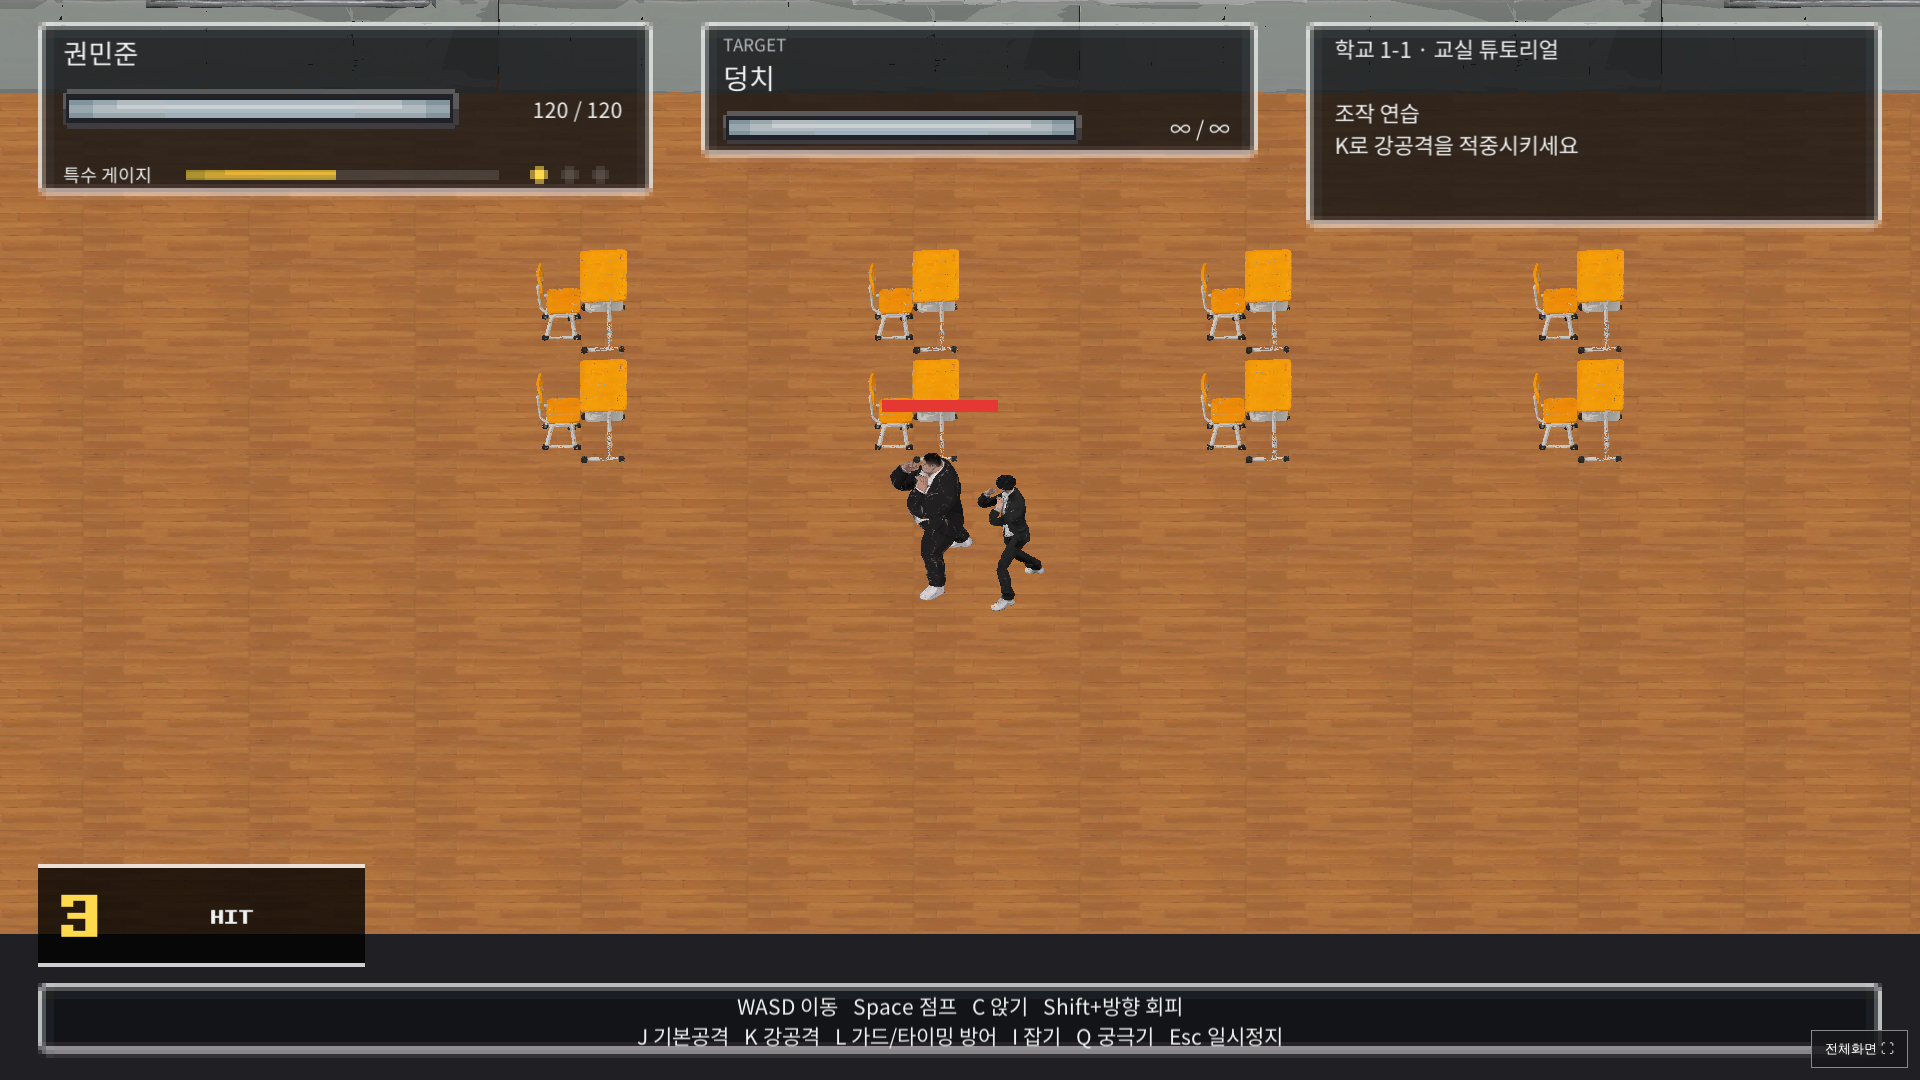
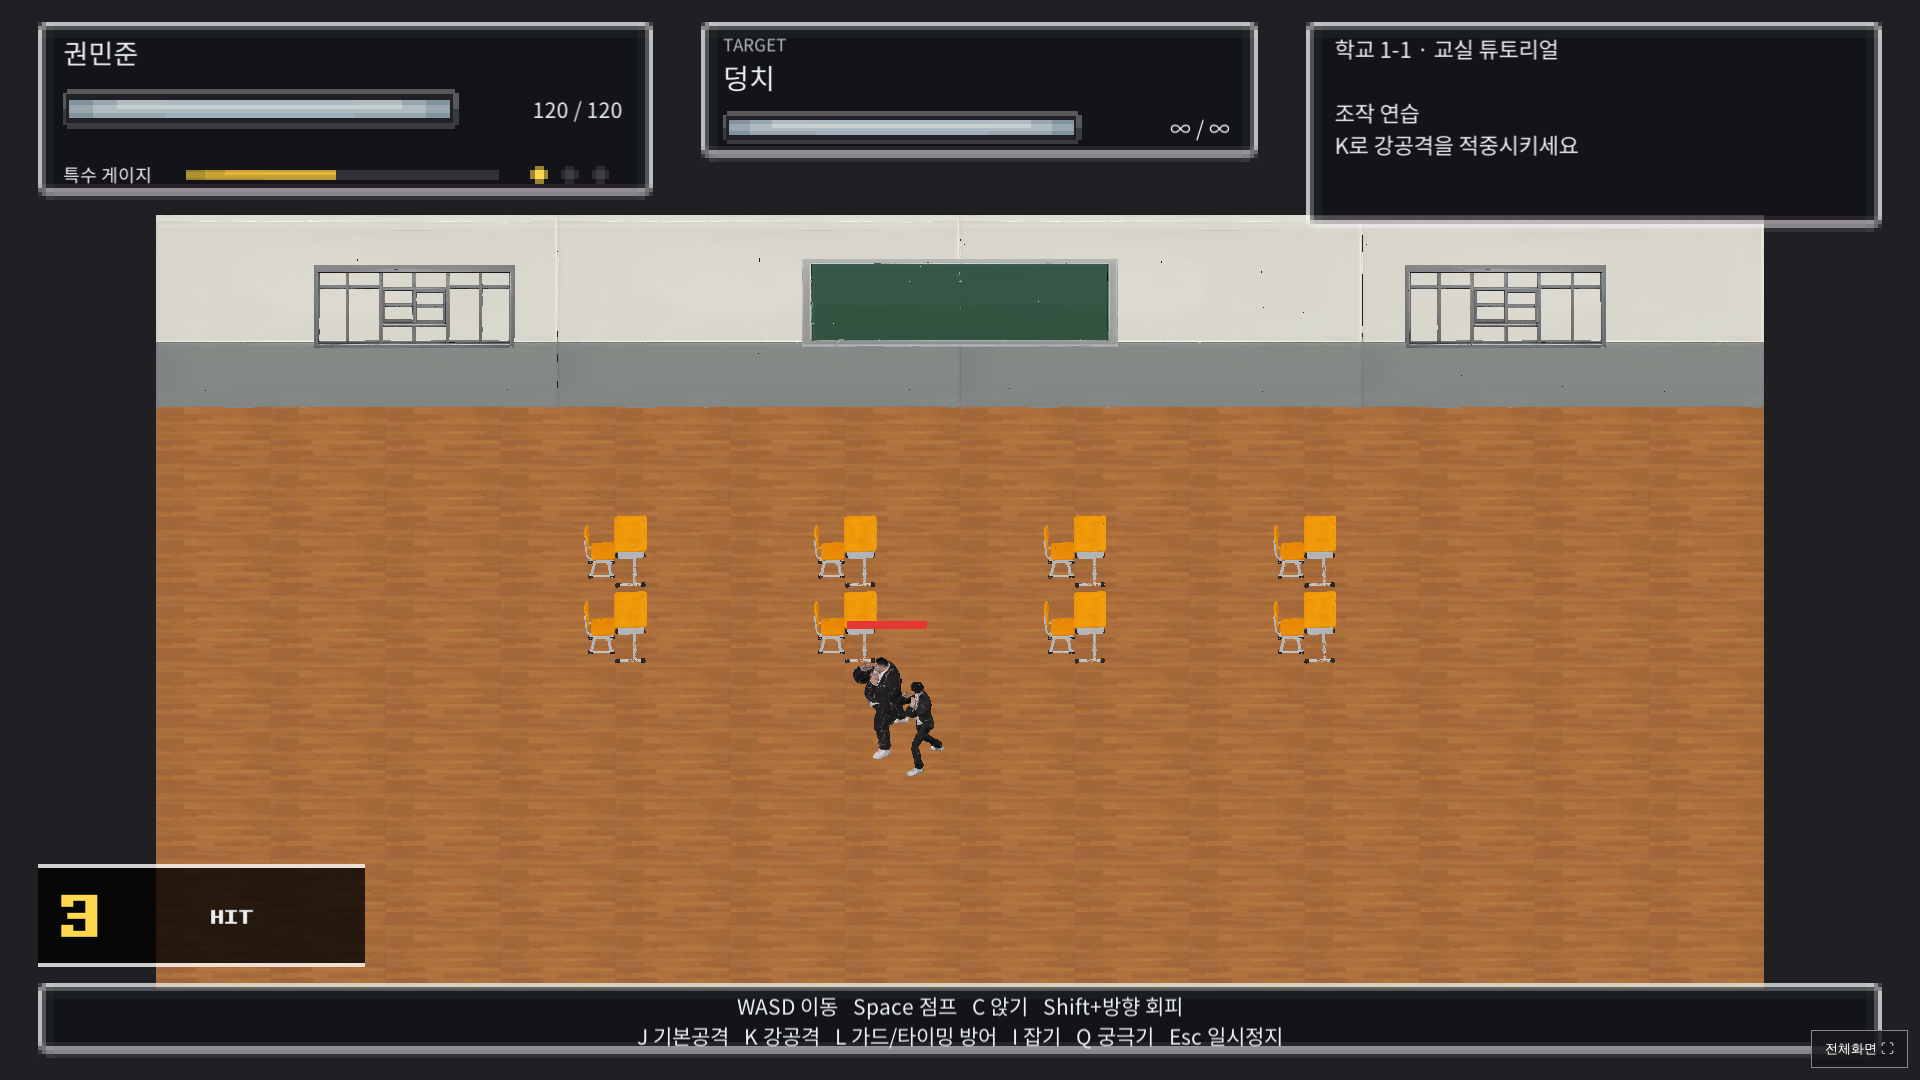
Record clean classroom and fixed-camera live verification [skip ci]

diff --git a/Docs/Assets/classroom-integration.md b/Docs/Assets/classroom-integration.md
@@ -37,3 +37,12 @@ A matching back-face-culling Blender render reproduced the remaining white crack
 The board's front writing area also restores the median original green color. This removes pale internal-backing colors sampled by projection on a few reduced facets; the provided frame and geometry are retained. The 99% board regression threshold stays unchanged.
 
 Original back-side inspection identified the two pale central shapes as rear mounting hardware. The board placement now uses yaw -90 to present the actual writing face after Unity FBX axis conversion. The source front frame and writing-area color are preserved.
+
+## Final cleanup and fixed-camera verification
+
+Source: `63d1aa9fe52d7372afd17fa90671b3d5d844174c`.
+CI: https://github.com/pig556347-boop/-0-/actions/runs/38259180606
+
+All four HUD executions passed 398 checks each (1,592 total). Real production checks passed: five classroom assets loaded, movement/jump/crouch/three-hit hook tutorial, Deongchi infinite HP until the required lesson, fullscreen/resize, stationary camera rig, and correct 4:3 arena framing. Runtime exceptions: zero.
+
+Visual regressions passed without lowering the 99% board threshold: wall interior luminance range 1.357/255; sampled board interior green fraction 99.75%. The final actual Unity screenshot was manually inspected and is `classroom-ingame.png`; `verification.json` matches the tested source. The supplied originals remain intact.
